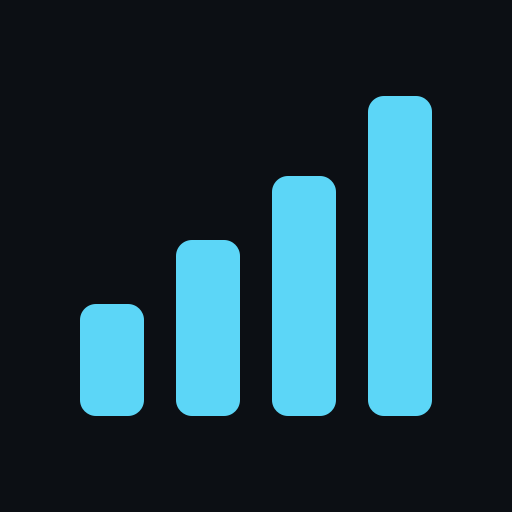
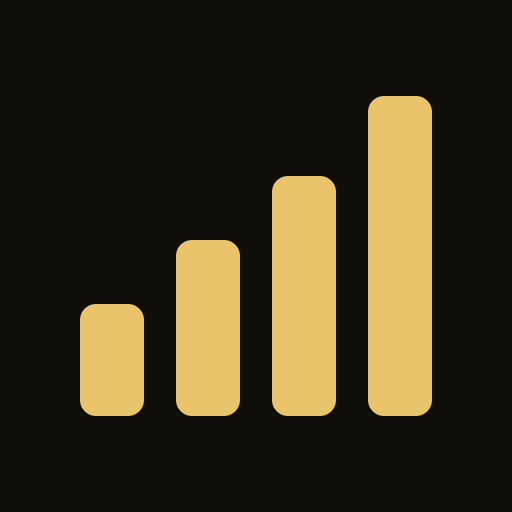
Signal gold, on trial
The accent becomes signal gold (#e9c46a) on a warm black (#0f0e0b) with
warm greys; the data golds, oranges and yellows move away from it
(series 3 and 5, Communication on the rotation graph, segment colours,
dividends and SBC series to rose). Favicons and share image in gold.
Electric cyan is the commit before, to return to in one revert.

diff --git a/app/terminal.css b/app/terminal.css
@@ -39,42 +39,42 @@
   --page: none;
   --radius: 0;
 
-  --bg: #0c0f14;
-  --raise: #12161d;
-  --fill: #1a1f27;
-  --line: #1d222b;
-  --line-strong: #2e3440;
-  --ink: #e6e9ef;
-  --ink-2: #9aa5b4;
-  --ink-3: #687384;
-  --inverse: #0c0f14;
+  --bg: #0f0e0b;
+  --raise: #15140f;
+  --fill: #1c1a15;
+  --line: #201e18;
+  --line-strong: #322f27;
+  --ink: #ece9e2;
+  --ink-2: #a8a397;
+  --ink-3: #75705f;
+  --inverse: #0f0e0b;
   /*
-   * Charts are not the accent: cyan is the terminal's own voice, and a screen
-   * of cyan plots under cyan headings reads as one colour. A plot is violet by
+   * Charts are not the accent: gold is the terminal's own voice, and a screen
+   * of gold plots under gold headings reads as one colour. A plot is violet by
    * default, a price green or red by which way it went, and the figures each
    * take a hue of the palette below — none of them a blue the accent could be
-   * taken for.
+   * taken for — no gold, orange or yellow among them.
    */
   --plot: #9d8cff;
   --plot-soft: rgba(157, 140, 255, .14);
   --c1: #9d8cff;
   --c2: #2dd4bf;
-  --c3: #fb923c;
+  --c3: #5cd6f7;
   --c4: #f472b6;
-  --c5: #facc15;
+  --c5: #c4b5fd;
   --c6: #fb7185;
   --c7: #e879f9;
   --c8: #a3e635;
-  --shade: rgba(92, 214, 247, .06);
+  --shade: rgba(233, 196, 106, .06);
   --gain: #2ed47d;
   --loss: #ff5149;
 
-  /* The accent, Tenqay's identity: electric cyan (the names stay: every rule reads --amber). */
-  --amber: #5cd6f7;
-  --amber-ink: #0c0f14;
-  --amber-dim: rgba(92, 214, 247, .55);
+  /* The accent, Tenqay's identity: signal gold (the names stay: every rule reads --amber). */
+  --amber: #e9c46a;
+  --amber-ink: #0f0e0b;
+  --amber-dim: rgba(233, 196, 106, .55);
   --cyan: #c4b5fd;
-  --head: #11151c;
+  --head: #14130f;
 
   color-scheme: dark;
   font-size: var(--fs-md);
@@ -84,8 +84,8 @@
 }
 
 /* The page behind the page, whatever the document site's theme says. */
-:root:has(.io.term), :root[data-theme]:has(.io.term) { background: #0c0f14; }
-body:has(.io.term) { background: #0c0f14; }
+:root:has(.io.term), :root[data-theme]:has(.io.term) { background: #0f0e0b; }
+body:has(.io.term) { background: #0f0e0b; }
 
 .term ::selection { background: var(--amber); color: var(--amber-ink); }
 .term :focus-visible { outline: 1px solid var(--amber); outline-offset: 1px; border-radius: 0; }
@@ -481,7 +481,7 @@ body:has(.io.term) { background: #0c0f14; }
 .t-heat-legend { display: flex; justify-content: center; gap: 0; padding: 0 8px 8px; }
 .t-heat-legend span { min-width: 52px; padding: 2px 6px; text-align: center; color: #fff; font-size: var(--fs-micro); font-variant-numeric: tabular-nums; }
 
-.t-calendar tr[data-state="due"] td { background: rgba(92, 214, 247, .08); }
+.t-calendar tr[data-state="due"] td { background: rgba(233, 196, 106, .08); }
 .t-calendar td.key a { color: var(--amber); font-weight: 600; }
 .t-watch td:first-child a { color: var(--amber); font-weight: 600; }
 
@@ -585,7 +585,7 @@ body:has(.io.term) { background: #0c0f14; }
 .t-page .segmented button.active { background: var(--amber); color: var(--amber-ink); }
 
 /* The row the keyboard is on (TermShell's ↑ ↓ ⏎). */
-.term tr[data-cursor] td, .term tr[data-cursor] th { background: rgba(92, 214, 247, .14) !important; }
+.term tr[data-cursor] td, .term tr[data-cursor] th { background: rgba(233, 196, 106, .14) !important; }
 .term tr[data-cursor] td:first-child, .term tr[data-cursor] th:first-child { box-shadow: inset 2px 0 0 var(--amber); }
 
 /* --- Market screen (MKT) ---------------------------------------------- */
@@ -609,7 +609,7 @@ body:has(.io.term) { background: #0c0f14; }
  */
 .t-fill { display: flex; flex-direction: column; }
 .t-fill > .t-panel-body { flex: 1 1 auto; min-height: 0; display: flex; flex-direction: column; }
-.t-wei tr[data-selected] td { background: rgba(92, 214, 247, .1); }
+.t-wei tr[data-selected] td { background: rgba(233, 196, 106, .1); }
 .t-wei-pick { display: flex; gap: 8px; width: 100%; text-align: left; color: var(--ink); }
 .t-wei-pick:hover { color: var(--amber); }
 .t-wei-region { width: 3ch; color: var(--amber-dim); font-size: var(--fs-micro); }
@@ -939,7 +939,7 @@ body:has(.io.term) { background: #0c0f14; }
 .t-ecal-co[data-followed] b { color: var(--amber); }
 .term .t-ecal-co:hover { border-color: var(--cyan); }
 .t-ecal-none { padding: 6px; }
-.t-ecal-list tr[data-followed] td { background: rgba(92, 214, 247, .07); }
+.t-ecal-list tr[data-followed] td { background: rgba(233, 196, 106, .07); }
 .t-ecal-list td.key a { color: var(--amber); font-weight: 600; }
 @media (max-width: 1100px) { .t-ecal-week { grid-template-columns: repeat(2, minmax(0, 1fr)); } }
 @media (max-width: 720px) { .t-ecal-week { grid-template-columns: minmax(0, 1fr); } .t-ecal { grid-template-areas: none; } .t-ecal > * { grid-area: auto !important; } }
@@ -1369,7 +1369,7 @@ body:has(.io.term) { background: #0c0f14; }
 .t-eco-surprise[data-surprise="above"] { color: var(--amber); border-color: var(--amber-dim); }
 .t-eco-surprise[data-surprise="below"] { color: #b4a7ff; border-color: rgba(180, 167, 255, .5); }
 .t-eco-day th { padding: 6px 8px 3px; text-align: left; color: var(--amber); font-size: var(--fs-micro); text-transform: uppercase; letter-spacing: var(--track-label); background: var(--head, transparent); }
-.t-eco-calendar tbody[data-today] .t-eco-day th { color: var(--ink); background: rgba(92, 214, 247, .12); }
+.t-eco-calendar tbody[data-today] .t-eco-day th { color: var(--ink); background: rgba(233, 196, 106, .12); }
 .t-eco-calendar tr[data-importance="low"] td { color: var(--ink-3); }
 .t-eco-dot { display: inline-block; width: 6px; height: 6px; margin-right: 6px; border-radius: 50%; background: var(--amber); vertical-align: 1px; }
 .t-eco-calendar td[data-dir="up"], .t-eco-calendar span[data-dir="up"], .t-eco-brief span[data-dir="up"] { color: var(--gain); }
@@ -1382,7 +1382,7 @@ body:has(.io.term) { background: #0c0f14; }
 .t-alrt-actions { display: flex; align-items: center; gap: 6px; flex-wrap: wrap; }
 .t-alrt-new { color: var(--amber-ink) !important; background: var(--amber) !important; border-color: var(--amber) !important; }
 .t-alrt-link { padding: 0; border: 0; background: none; color: var(--amber); font: inherit; cursor: pointer; text-decoration: underline; text-underline-offset: 2px; }
-.t-alrt-editor { display: grid; gap: 8px; margin-bottom: 10px; padding: 10px; border: 1px solid var(--amber-dim); background: rgba(92, 214, 247, .04); }
+.t-alrt-editor { display: grid; gap: 8px; margin-bottom: 10px; padding: 10px; border: 1px solid var(--amber-dim); background: rgba(233, 196, 106, .04); }
 .t-alrt-editor h3 { margin: 0; color: var(--amber); font-size: var(--fs-xs); text-transform: uppercase; letter-spacing: var(--track-label); }
 .t-alrt-hint { margin: 0; font-size: var(--fs-micro); }
 .t-alrt-fields { display: flex; flex-wrap: wrap; gap: 8px 14px; }

diff --git a/lib/metrics.ts b/lib/metrics.ts
@@ -15,7 +15,7 @@ export const METRICS: Record<string, MetricDefinition> = {
   operatingCashFlow: { label: "Operating cash flow", short: "Operating CF", color: "#48cbd4", kind: "currency" },
   capitalExpenditures: { label: "Capital expenditures", short: "Capex", color: "#f9737f", kind: "currency" },
   acquisitions: { label: "Acquisitions", short: "Acquisitions", color: "#fb7185", kind: "currency" },
-  dividendsPaid: { label: "Dividends paid", short: "Dividends", color: "#f59e0b", kind: "currency" },
+  dividendsPaid: { label: "Dividends paid", short: "Dividends", color: "#fb7185", kind: "currency" },
   freeCashFlow: { label: "Free cash flow", short: "Free cash flow", color: "#c8f169", kind: "currency", formula: FORMULAS.freeCashFlow },
   freeCashFlowAfterSbc: { label: "Free cash flow after SBC", short: "FCF after SBC", color: "#84CC16", kind: "currency", formula: FORMULAS.freeCashFlowAfterSbc },
   freeCashFlowAfterSbcPerShare: { label: "Free cash flow after SBC per share", short: "FCF after SBC / share", color: "#84CC16", kind: "perShare", formula: FORMULAS.freeCashFlowAfterSbcPerShare },
@@ -30,7 +30,7 @@ export const METRICS: Record<string, MetricDefinition> = {
   sharesOutstanding: { label: "Shares outstanding · period end", short: "Shares outstanding", color: "#f4bc56", kind: "shares" },
   sharesIssued: { label: "Shares issued", short: "Shares issued", color: "#c084fc", kind: "shares" },
   treasuryShares: { label: "Treasury shares", short: "Treasury shares", color: "#fb7185", kind: "shares" },
-  stockBasedCompensation: { label: "Stock-based compensation", short: "SBC", color: "#f59e0b", kind: "currency" },
+  stockBasedCompensation: { label: "Stock-based compensation", short: "SBC", color: "#fb7185", kind: "currency" },
   shareRepurchases: { label: "Gross share repurchases", short: "Buybacks", color: "#53d39c", kind: "currency" },
   shareIssuance: { label: "Stock issuance proceeds", short: "Issuance proceeds", color: "#f9737f", kind: "currency" },
   netShareRepurchases: { label: "Net share repurchases", short: "Net buybacks", color: "#22c55e", kind: "currency", formula: "Gross repurchases − issuance proceeds" },
@@ -43,7 +43,7 @@ export const METRICS: Record<string, MetricDefinition> = {
   shareCountChange: { label: "Share count change", short: "Share count change", color: "#fb7185", kind: "percent", formula: "Current diluted shares / previous diluted shares − 1" },
   shareCountAbsoluteChange: { label: "Absolute share-count change", short: "Share change", color: "#f43f5e", kind: "shares", formula: "Current diluted shares − previous diluted shares" },
   cumulativeDilution: { label: "Cumulative dilution", short: "Cumulative dilution", color: "#e879f9", kind: "percent", formula: "Current diluted shares / first visible diluted shares − 1" },
-  stockBasedCompensationToRevenue: { label: "SBC / Revenue", short: "SBC / Revenue", color: "#f59e0b", kind: "percent", formula: "Stock-based compensation / Revenue" },
+  stockBasedCompensationToRevenue: { label: "SBC / Revenue", short: "SBC / Revenue", color: "#fb7185", kind: "percent", formula: "Stock-based compensation / Revenue" },
   stockBasedCompensationToFcf: { label: "SBC / FCF", short: "SBC / FCF", color: "#f97316", kind: "percent", formula: "Stock-based compensation / Free cash flow" },
   cashConversion: { label: "Cash conversion", short: "FCF / Net income", color: "#2dd4bf", kind: "percent", formula: "Free cash flow / Net income" },
   cashAndEquivalents: { label: "Cash and equivalents", short: "Cash", color: "#32D5E2", kind: "currency" },
@@ -67,7 +67,7 @@ export const METRICS: Record<string, MetricDefinition> = {
   retainedEarnings: { label: "Retained earnings", short: "Retained earnings", color: "#53D39C", kind: "currency" },
   researchAndDevelopment: { label: "Research and development", short: "R&D", color: "#A78BFA", kind: "currency" },
   sellingGeneralAndAdministrative: { label: "Selling, general and administrative", short: "SG&A", color: "#F4BC56", kind: "currency" },
-  operatingExpenses: { label: "Operating expenses", short: "Opex", color: "#F59E0B", kind: "currency" },
+  operatingExpenses: { label: "Operating expenses", short: "Opex", color: "#fb7185", kind: "currency" },
   netInterestIncome: { label: "Net interest income", short: "Net interest income", color: "#4DA3FF", kind: "currency" },
   netIncomeToCommon: { label: "Net income to common shareholders", short: "NI to common", color: "#f4bc56", kind: "currency" },
   minorityInterest: { label: "Minority interest", short: "Minority interest", color: "#94A3B8", kind: "currency" },
@@ -89,7 +89,7 @@ export const METRICS: Record<string, MetricDefinition> = {
   intangibleAssets: { label: "Acquired intangibles", short: "Intangibles", color: "#94A3B8", kind: "currency" },
   interestExpense: { label: "Interest expense", short: "Interest", color: "#F9737F", kind: "currency" },
   interestPaid: { label: "Cash interest paid", short: "Cash interest", color: "#FB7185", kind: "currency" },
-  dividendsPerShare: { label: "Dividends per share", short: "DPS", color: "#F59E0B", kind: "perShare" },
+  dividendsPerShare: { label: "Dividends per share", short: "DPS", color: "#fb7185", kind: "perShare" },
   ebitda: { label: "EBITDA", short: "EBITDA", color: "#48CBD4", kind: "currency", formula: FORMULAS.ebitda },
   ebitdaMargin: { label: "EBITDA margin", short: "EBITDA margin", color: "#48CBD4", kind: "percent", formula: FORMULAS.ebitdaMargin },
   pretaxMargin: { label: "Pre-tax margin", short: "Pre-tax margin", color: "#F4BC56", kind: "percent", formula: FORMULAS.pretaxMargin },
@@ -101,7 +101,7 @@ export const METRICS: Record<string, MetricDefinition> = {
   returnOnCapitalEmployed: { label: "Return on capital employed", short: "ROCE", color: "#A78BFA", kind: "percent", formula: FORMULAS.returnOnCapitalEmployed },
   debtToEquity: { label: "Debt to equity", short: "Debt/Equity", color: "#FF647C", kind: "ratio", formula: FORMULAS.debtToEquity },
   interestCoverage: { label: "Interest coverage", short: "EBIT/Interest", color: "#FF647C", kind: "ratio", formula: FORMULAS.interestCoverage },
-  dividendPayout: { label: "Dividend payout", short: "Payout", color: "#F59E0B", kind: "percent", formula: FORMULAS.dividendPayout },
+  dividendPayout: { label: "Dividend payout", short: "Payout", color: "#fb7185", kind: "percent", formula: FORMULAS.dividendPayout },
   revenueGrowth: { label: "Revenue growth", short: "Revenue growth", color: "#4DA3FF", kind: "percent", formula: "Current revenue / Previous revenue − 1" },
   freeCashFlowGrowth: { label: "FCF growth", short: "FCF growth", color: "#D8FF5F", kind: "percent", formula: "Current FCF / Previous FCF − 1" },
   freeCashFlowPerShareGrowth: { label: "FCF per share growth", short: "FCF/share growth", color: "#84CC16", kind: "percent", formula: "Current FCF/share / Previous FCF/share − 1" },

diff --git a/components/term/Economy.tsx b/components/term/Economy.tsx
@@ -228,7 +228,7 @@ export function EconomyScreen() {
   );
 }
 
-const COLORS = { blue: "var(--c1, #4c8dff)", amber: "var(--amber, #5cd6f7)", teal: "var(--c3, #2bb3a3)", violet: "var(--c4, #9a7bff)" };
+const COLORS = { blue: "var(--c1, #4c8dff)", amber: "var(--amber, #e9c46a)", teal: "var(--c3, #2bb3a3)", violet: "var(--c4, #9a7bff)" };
 
 function EconCharts({ series }: { series: EconSeries[] }) {
   const find = (id: string) => series.find((entry) => entry.id === id);
@@ -301,7 +301,7 @@ function EconHistory({ name, events, onClose }: { name: string; events: EconEven
   const values = points.map((point) => point.value);
   const format = (value: number | null | undefined) => (value == null ? "—" : percent ? `${value.toFixed(2)}%` : series?.unit === "index" ? value.toFixed(1) : series?.id === "JTS000000000000000JOL" ? `${(value / 1000).toFixed(2)}M` : `${value >= 0 ? "+" : "−"}${Math.abs(Math.round(value)).toLocaleString("en-US")}K`);
   const kind: "bar" | "line" = spec && (spec.transform === "mom" || spec.transform === "diff" || quarterly) ? "bar" : "line";
-  const chartSpec = { id: id ?? "series", label: spec?.label ?? name, kind, axis: "left" as const, color: "var(--amber, #5cd6f7)", value: () => null };
+  const chartSpec = { id: id ?? "series", label: spec?.label ?? name, kind, axis: "left" as const, color: "var(--amber, #e9c46a)", value: () => null };
   const preset: Preset = { id: `history-${id}`, title: spec?.label ?? name, left: percent ? "percent" : "shares", series: [chartSpec] };
   const data: ChartData = {
     labels: points.map((point) => periodLabel(point.period)),

diff --git a/components/term/Rotation.tsx b/components/term/Rotation.tsx
@@ -16,7 +16,7 @@ const SECTOR_FUNDS = [
   { symbol: "XLF", name: "Financials", color: "#2dd4bf" },
   { symbol: "XLV", name: "Health care", color: "#a78bfa" },
   { symbol: "XLY", name: "Discretionary", color: "#f472b6" },
-  { symbol: "XLC", name: "Communication", color: "#facc15" },
+  { symbol: "XLC", name: "Communication", color: "#5cd6f7" },
   { symbol: "XLI", name: "Industrials", color: "#d6a77a" },
   { symbol: "XLP", name: "Staples", color: "#e879f9" },
   { symbol: "XLE", name: "Energy", color: "#fb923c" },
@@ -95,7 +95,7 @@ export function Rotation() {
               <g key={fund.symbol} opacity={dim ? 0.15 : 1} onPointerEnter={() => setFocus(fund.symbol)} onPointerLeave={() => setFocus(null)}>
                 <path d={line(fund.path)} fill="none" stroke={fund.color} strokeWidth={1.4} />
                 {fund.path.slice(0, -1).map((point) => <circle key={point.t} cx={x(point.ratio)} cy={y(point.momentum)} r={1.8} fill={fund.color} />)}
-                <circle cx={x(last.ratio)} cy={y(last.momentum)} r={5} fill={fund.color} stroke="#0c0f14" strokeWidth={1} />
+                <circle cx={x(last.ratio)} cy={y(last.momentum)} r={5} fill={fund.color} stroke="#0f0e0b" strokeWidth={1} />
                 <text x={x(last.ratio) + 7} y={y(last.momentum) + 3} className="t-rrg-tag" fill={fund.color}>{fund.symbol}</text>
               </g>
             );

diff --git a/tests/ui-regressions.test.ts b/tests/ui-regressions.test.ts
@@ -981,14 +981,14 @@ describe("the redesign", () => {
     expect(qs).not.toContain("function reportedDebt(");
   });
 
-  it("wears Tenqay's identity: electric cyan on the terminal's black, favicons in every size a browser asks for", () => {
+  it("wears Tenqay's identity: signal gold on the terminal's black, favicons in every size a browser asks for", () => {
     const icon = readFileSync(new URL("../public/favicon.svg", import.meta.url), "utf8");
     const css = readFileSync(new URL("../app/terminal.css", import.meta.url), "utf8");
-    expect(icon).toContain("#5cd6f7");
-    expect(icon).toContain("#0c0f14");
-    expect(css).toContain("--amber: #5cd6f7;");
+    expect(icon).toContain("#e9c46a");
+    expect(icon).toContain("#0f0e0b");
+    expect(css).toContain("--amber: #e9c46a;");
     // No accent of before, and no data blue the accent could be taken for.
-    for (const old of ["255, 160, 40", "212, 250, 76", "#4ea8ff", "#5fb8ff"]) expect(css).not.toContain(old);
+    for (const old of ["255, 160, 40", "212, 250, 76", "92, 214, 247", "#4ea8ff", "#5fb8ff"]) expect(css).not.toContain(old);
     for (const file of ["favicon.ico", "favicon-32.png", "apple-touch-icon.png", "icon-192.png", "icon-512.png"]) {
       expect(readFileSync(new URL(`../public/${file}`, import.meta.url)).length).toBeGreaterThan(100);
     }

diff --git a/app/io.css b/app/io.css
@@ -2073,7 +2073,7 @@ body:has(.io) { margin: 0; background: var(--bg, #fff); }
 .study-shape-line { stroke: #f1f3f5; stroke-width: 1.8; }
 .study-shape-neck { stroke: #f1f3f5; stroke-width: 1.4; stroke-dasharray: 6 4; }
 .study-shape-swing { fill: none; stroke: #f1f3f5; stroke-width: 1.2; stroke-opacity: .55; }
-.study-shape-target { stroke: var(--amber, #5cd6f7); stroke-width: 1.2; stroke-dasharray: 2 3; }
+.study-shape-target { stroke: var(--amber, #e9c46a); stroke-width: 1.2; stroke-dasharray: 2 3; }
 .study-shape[data-tone="good"] .study-shape-target { stroke: var(--gain); }
 .study-shape[data-tone="bad"] .study-shape-target { stroke: var(--loss); }
 .study-shape-label { position: absolute; transform: translateX(-2px); padding: 0 4px; font-size: var(--fs-micro, 10px); white-space: nowrap; color: #f1f3f5; background: rgba(0, 0, 0, .55); border: 1px solid rgba(241, 243, 245, .35); pointer-events: none; }

diff --git a/app/free-screener.css b/app/free-screener.css
@@ -51,7 +51,7 @@
 .eqs-error { color: var(--loss); }
 
 .eqs-chips { display: flex; flex-wrap: wrap; align-items: center; gap: 4px; padding: 5px 8px; border-top: 1px solid var(--line); }
-.eqs-chip { height: 20px; padding: 0 6px; font: inherit; font-size: var(--fs-micro); color: var(--amber); background: rgba(92, 214, 247, .1); border: 1px solid var(--amber-dim); cursor: pointer; }
+.eqs-chip { height: 20px; padding: 0 6px; font: inherit; font-size: var(--fs-micro); color: var(--amber); background: rgba(233, 196, 106, .1); border: 1px solid var(--amber-dim); cursor: pointer; }
 .eqs-chip:hover { border-color: var(--loss); color: var(--loss); }
 .eqs-chip[data-invalid] { border-color: var(--loss); color: var(--loss); }
 .eqs-chip span { margin-left: 3px; }

diff --git a/components/io/Segments.tsx b/components/io/Segments.tsx
@@ -14,7 +14,7 @@ import { ABSENT, edgarUrl, money, shortDate } from "./format";
  */
 
 const RESIDUAL_COLOR = "#6b7280";
-const COLORS = ["#9d8cff", "#f5a524", "#2fbf71", "#e5484d", "#a78bfa", "#14b8a6", "#f472b6", "#94a3b8", "#eab308", "#c4b5fd", "#fb923c", "#22c55e"];
+const COLORS = ["#9d8cff", "#5cd6f7", "#2fbf71", "#e5484d", "#a78bfa", "#14b8a6", "#f472b6", "#94a3b8", "#e879f9", "#c4b5fd", "#fb923c", "#22c55e"];
 
 const pct = (value: number | null, places = 1) => (value == null || !Number.isFinite(value) ? ABSENT : `${value > 0 ? "+" : value < 0 ? "−" : ""}${Math.abs(value * 100).toFixed(places)}%`);
 const share = (value: number | null) => (value == null ? ABSENT : `${(value * 100).toFixed(1)}%`);

diff --git a/app/manifest.ts b/app/manifest.ts
@@ -7,8 +7,8 @@ export default function manifest(): MetadataRoute.Manifest {
     description: "Filed financials, market prices and valuation for US-listed companies.",
     start_url: "/t",
     display: "standalone",
-    background_color: "#0c0f14",
-    theme_color: "#0c0f14",
+    background_color: "#0f0e0b",
+    theme_color: "#0f0e0b",
     icons: [
       { src: "/favicon.svg", sizes: "any", type: "image/svg+xml" },
       { src: "/icon-192.png", sizes: "192x192", type: "image/png" },
